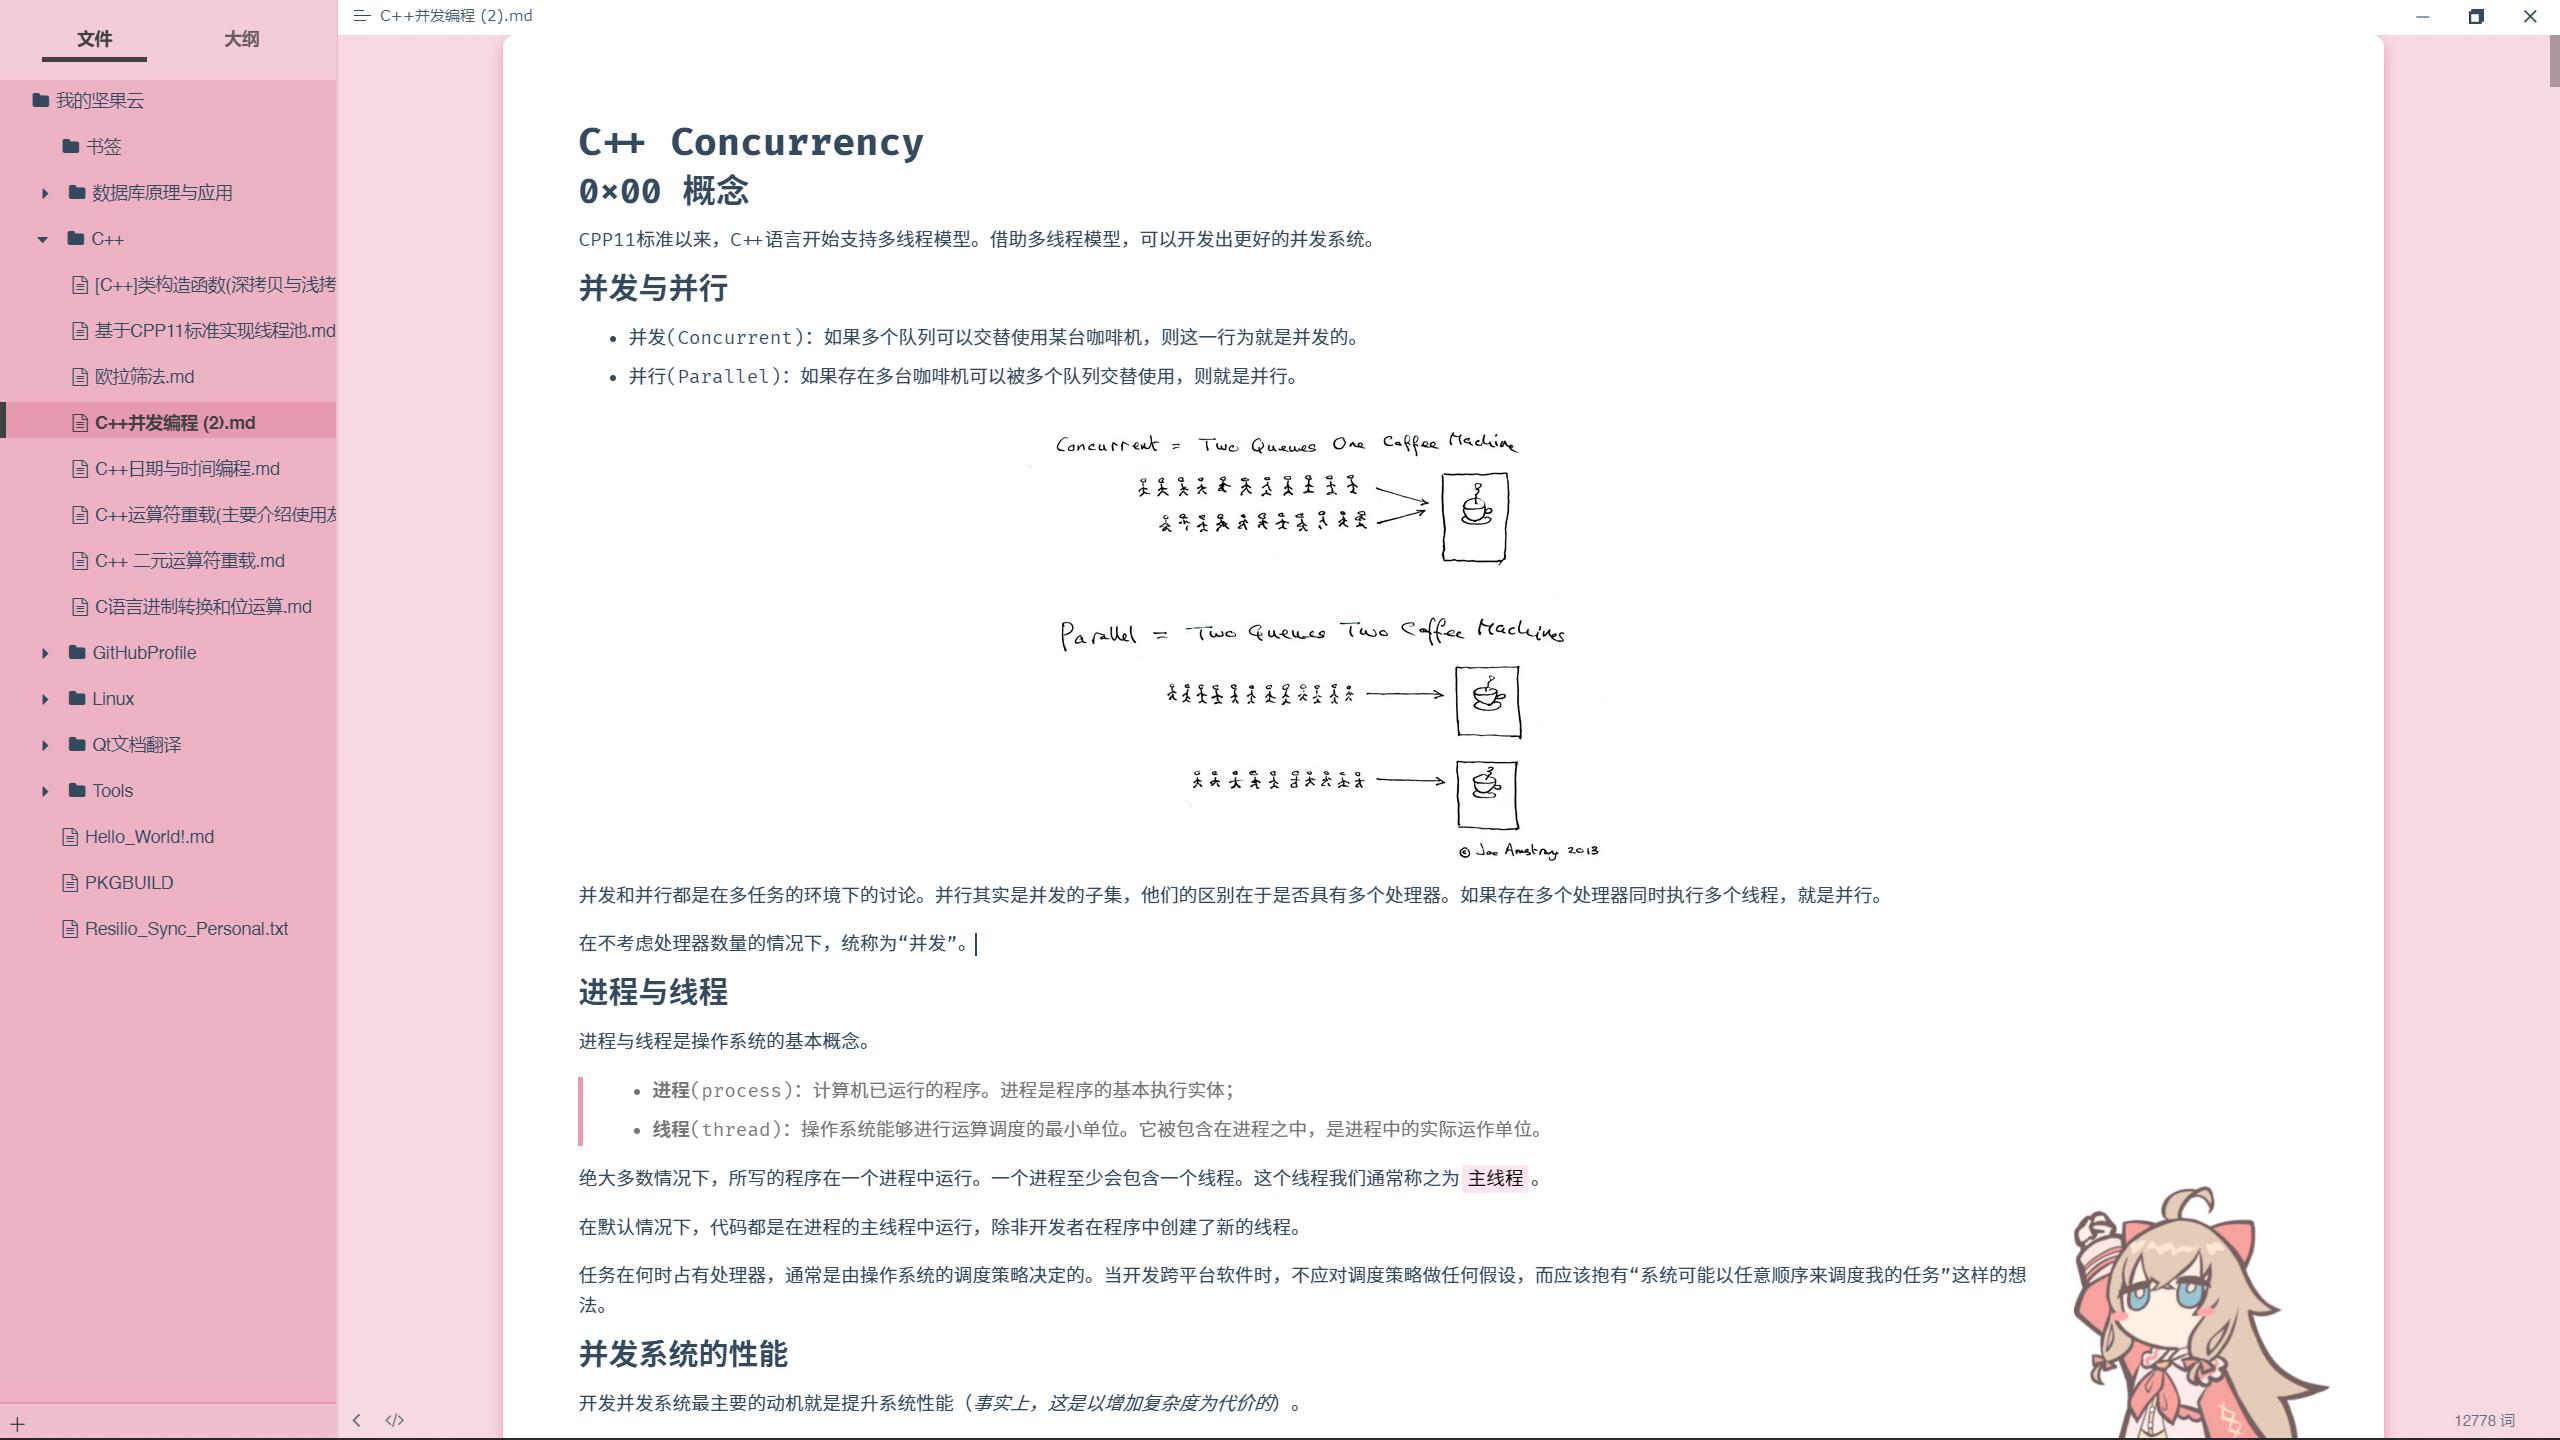
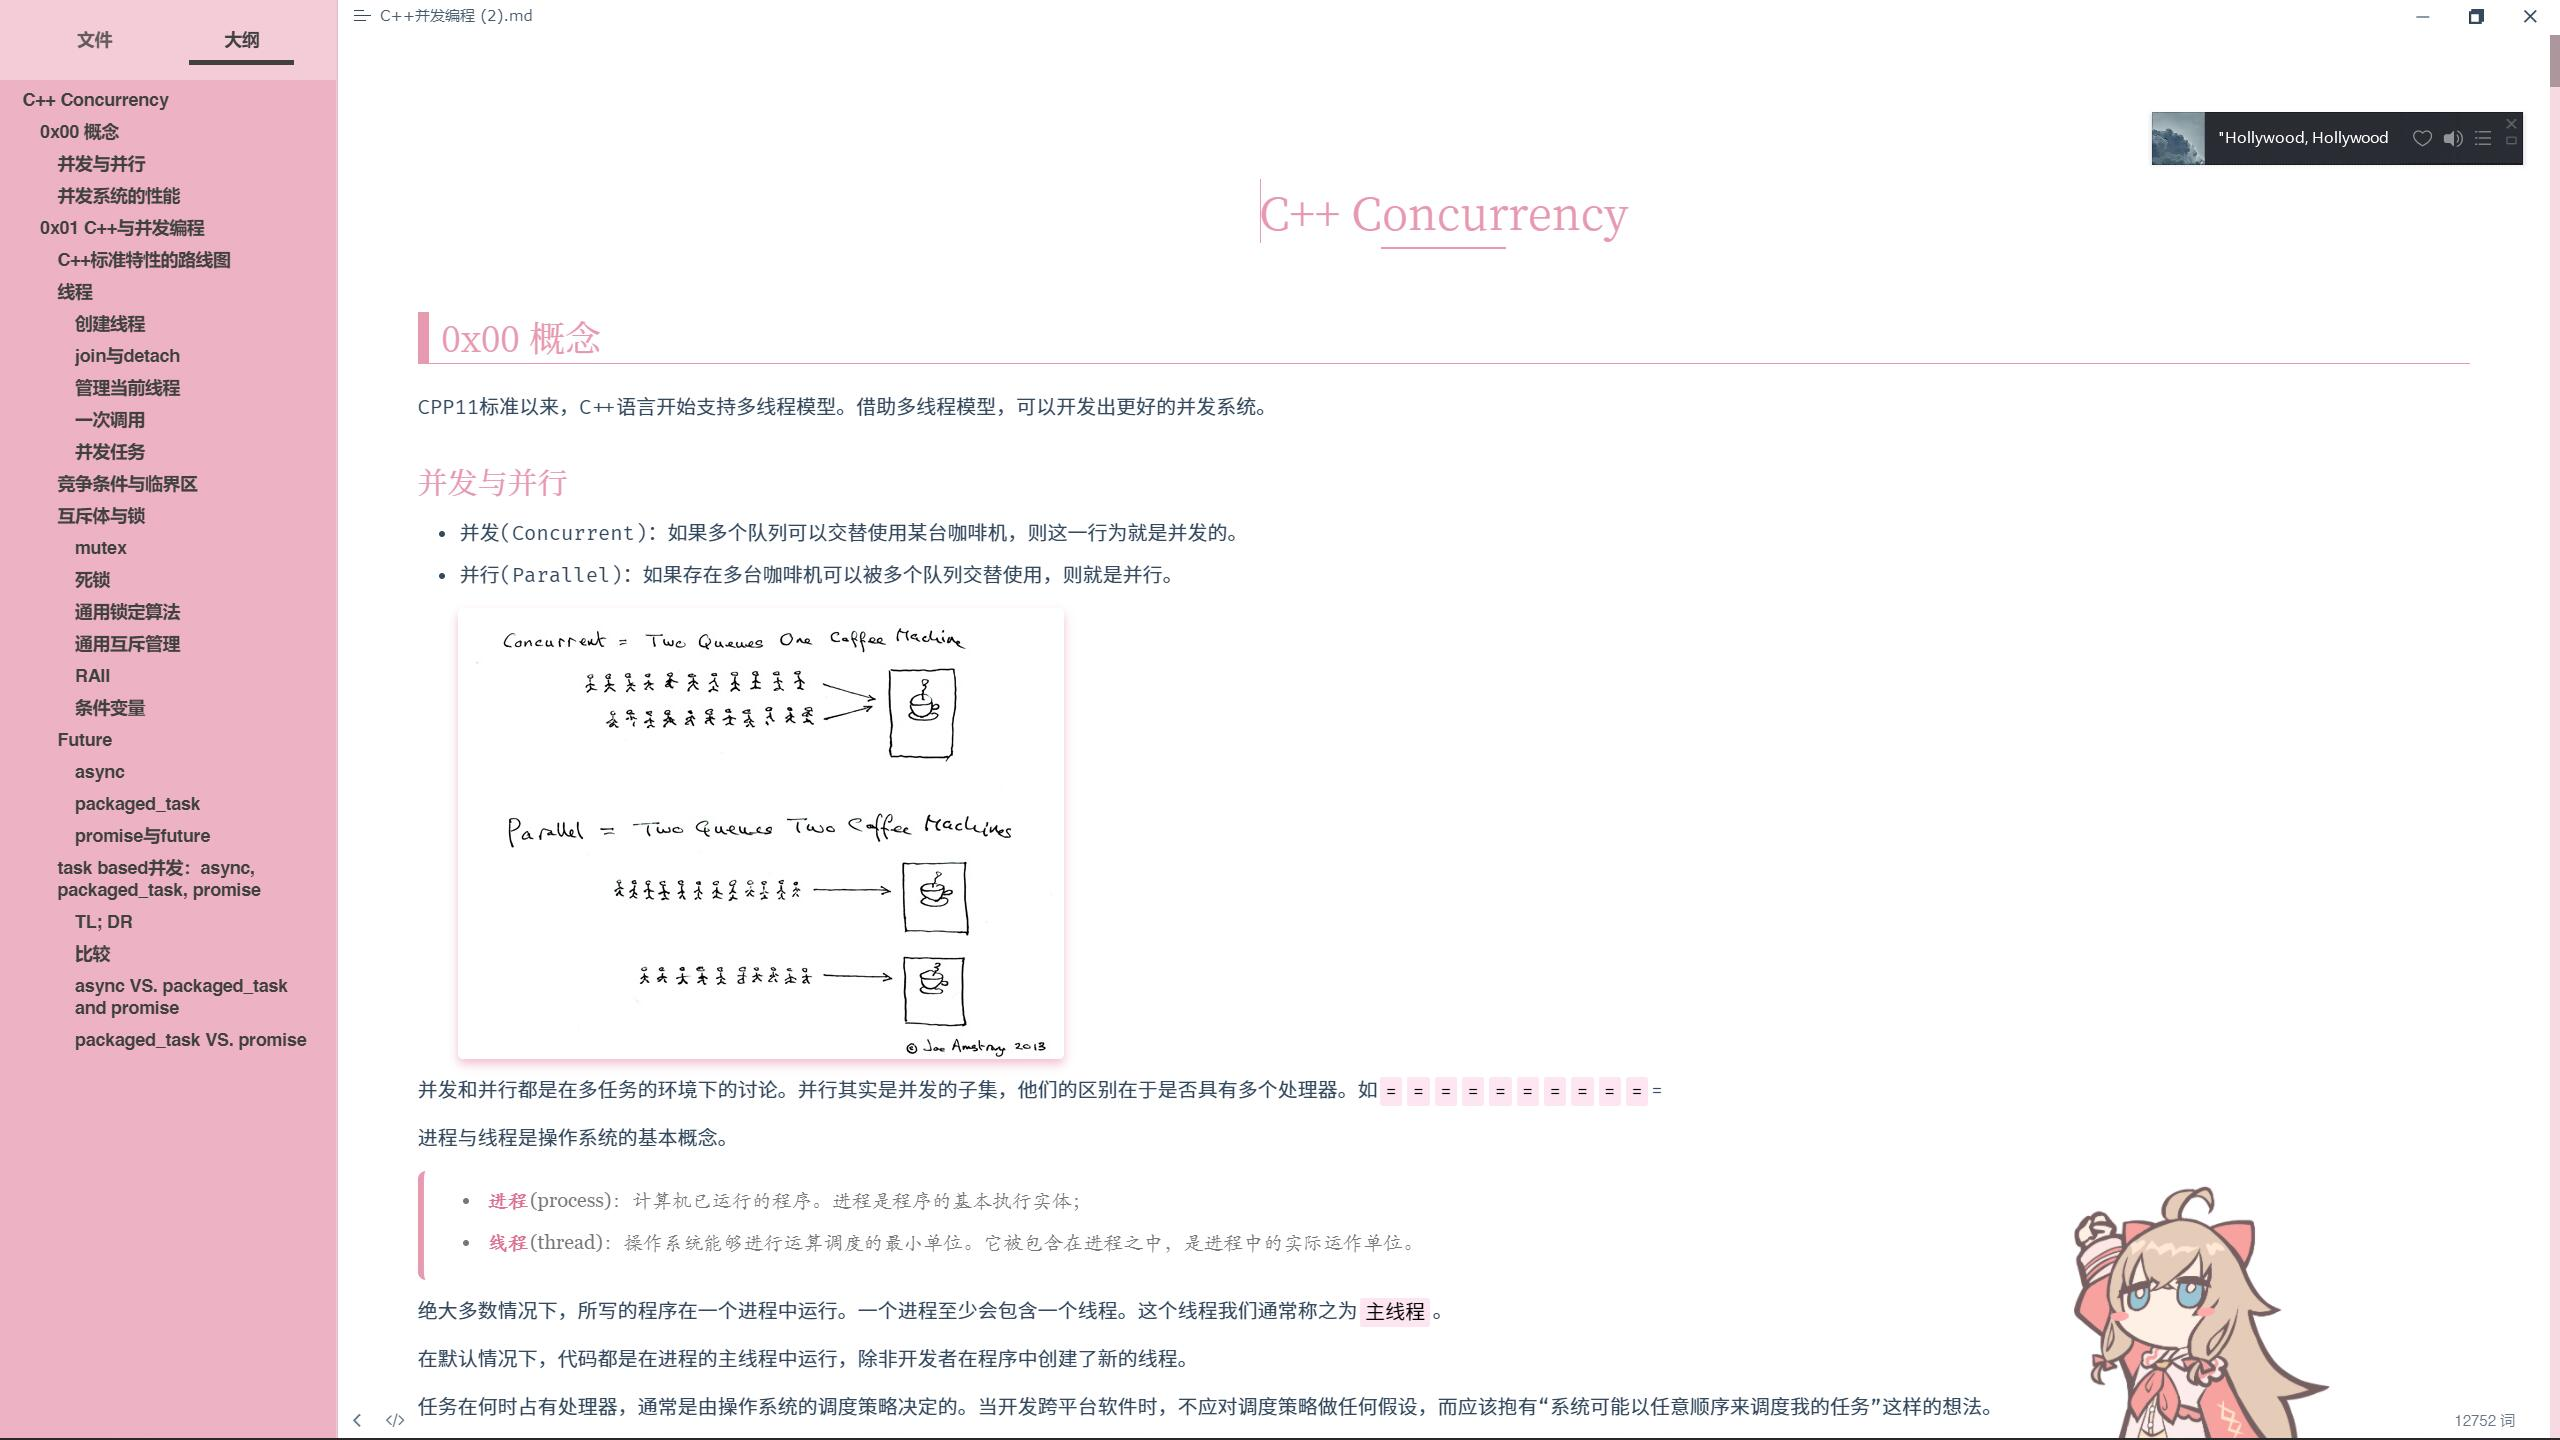
更新多个样式（最重要的时全局flat）
1. 更改为flat样式（相比于缩放样式更适合显示，当然，纸张的仿真感就没啦！）
2. 更新标题样式
3. 更新搜索样式
4. 更新加粗字体样式
5. 暂时不会继续写了，开摆！

diff --git a/jiaran.css b/jiaran.css
@@ -1,20 +1,51 @@
 :root {
+  --control-text-color: #777;
+  --select-text-bg-color: rgba(223, 197, 223); /*#7e66992e;*/
+  --search-select-bg-color: #de7292;
+
   --side-bar-bg-color: rgba(231,153,176,0.5);
   --window-border: 2px solid #E799B0;
 
+  --title-color: #E799B0;
   --text-color: #34495e;
-  --font-sans-serif: "思源宋体", "Ubuntu", "Source Sans Pro", sans-serif !important;
-  --font-monospace: "Fira Code", "思源黑体", monospace !important;
+  --font-sans-serif: "思源宋体", "Source Han Sans CN", "Ubuntu", "Source Han Sans SC", "Source Sans Pro", sans-serif !important;
+  --font-monospace: "Fira Code", "思源黑体", "Noto Sans CJK SC", monospace !important;
 
   --base-font: -apple-system, "Fira Code", "思源黑体", "Noto Sans", "Helvetica Neue", Helvetica,
     "Nimbus Sans L", Arial, "Liberation Sans", "Noto Sans CJK SC", "PingFang SC",
     "Hiragino Sans GB", "Source Han Sans SC", "Source Han Sans CN",
     "Microsoft YaHei", "Wenquanyi Micro Hei", "WenQuanYi Zen Hei", "ST Heiti",
     SimHei, "WenQuanYi Zen Hei Sharp", "Ubuntu", "Source Sans Pro", monospace;
+
+    --title-font: "Noto Serif CJK SC", "Songti SC", "Source Han Serif SC",
+    "Source Han Serif CN", STSong, "AR PL New Sung", "AR PL SungtiL GB", NSimSun,
+    SimSun, "TW\-Sung", "WenQuanYi Bitmap Song", "AR PL UMing CN",
+    "AR PL UMing HK", "AR PL UMing TW", "AR PL UMing TW MBE", PMingLiU, MingLiU,
+    "Ubuntu", "Source Sans Pro", serif;
+  --em-font: "Noto Serif CJK SC" ， "Songti SC", "Source Han Serif SC",
+    "Source Han Serif CN", STSong, "AR PL New Sung", "AR PL SungtiL GB", NSimSun,
+    SimSun, "TW\-Sung", "WenQuanYi Bitmap Song", "AR PL UMing CN",
+    "AR PL UMing HK", "AR PL UMing TW", "AR PL UMing TW MBE", PMingLiU, MingLiU,
+    "Ubuntu", "Source Sans Pro", serif;
+  --quota-font: "EB Garamond", Baskerville, Georgia, "Liberation Serif",
+    "TW-Kai", "Kaiti SC", STKaiti, "AR PL UKai CN", "AR PL UKai HK",
+    "AR PL UKai TW", "AR PL UKai TW MBE", "AR PL KaitiM GB", KaiTi, KaiTi_GB2312,
+    DFKai-SB, "TW\-Kai", serif;
+  --monospace: "Fira Code", "思源黑体", "Noto Sans", "Noto Sans CJK SC", "Cascadia code", "Sarasa Term SC", Monaco, "Deja Vu Sans Mono",
+    Consolas, "Lucida Console", "Andale Mono", "Fira Code", "Roboto Mono",
+    monospace, Courier;
+
+    --pink-1: #E799B0;
+    --pink-2: #de7292;
+    --pink-3: #eaa6ba;
+    --pink-4: #f0bfce;
+    --pink-5: #fd5eb8;
+
+    --shadow: var(--pink-4) 0px 5px 10px;
 }
 
 html {
-  font-size: 15px;
+  font-size: 16px;
   -webkit-text-size-adjust: 100%;
   -ms-text-size-adjust: 100%;
   text-rendering: optimizelegibility;
@@ -37,12 +68,14 @@ content {
 #write {
   font-family: var(--base-font);
   background-color: #fff !important; 
-  width: 85%;
-  height: auto;
+  /*width: 85%;
+  height: auto;*/
+
   background: url("./diana.png") no-repeat;
   background-size: 10%;
   background-position: 90% bottom;
   background-attachment: fixed;
+
   /*margin-top: 30px;
   margin-bottom: 15px;
   padding-left: 80px;
@@ -50,7 +83,8 @@ content {
   margin: 0 auto;
   padding: 4rem;
   padding-bottom: 100px;
-  border-radius: 10px;
+
+  /*border-radius: 10px;*/
   box-shadow: 0px 5px 10px #E799B0;
 }
 
@@ -58,6 +92,161 @@ content {
   line-height: 1.6rem;
   word-spacing: 0.05rem;
 }
+
+body > *:first-child {
+  margin-top: 0 !important;
+}
+
+body > *:last-child {
+  margin-bottom: 0 !important;
+}
+
+a {
+  color: var(--pink-4);
+  text-decoration: none;
+}
+#write a:hover {
+  border-bottom: 1px solid var(--pink-4);
+  color: var(--pink-4);
+  text-decoration: none;
+}
+.md-content {
+  color: var(--pink-3);
+}
+
+h1,
+h2,
+h3,
+h4,
+h5,
+h6 {
+  position: relative;
+  margin-top: 1rem;
+  margin-bottom: 0.5rem;
+  /* font-weight: bold; */
+  font-weight: 400;
+  line-height: 1.4;
+  cursor: text;
+  color: var(--title-color);
+  font-family: var(--title-font);
+}
+
+h1 tt,
+h1 code {
+  font-size: inherit !important;
+}
+h2 tt,
+h2 code {
+  font-size: inherit !important;
+}
+h3 tt,
+h3 code {
+  font-size: inherit !important;
+}
+h4 tt,
+h4 code {
+  font-size: inherit !important;
+}
+h5 tt,
+h5 code {
+  font-size: inherit !important;
+}
+h6 tt,
+h6 code {
+  font-size: inherit !important;
+}
+
+h1 {
+  padding-bottom: 0.4rem;
+  font-size: 2.2rem;
+  line-height: 1.3;
+}
+h1 {
+  text-align: center;
+  padding-bottom: 0.3em;
+  font-size: 2.2em;
+  line-height: 1.2;
+  margin: 1.6em auto 1em;
+}
+h1:after {
+  content: "";
+  display: block;
+  margin: 0.2em auto 0;
+  width: 100px;
+  height: 2px;
+  border-bottom: 2px solid var(--title-color);
+}
+
+h2 {
+  margin: 1.4em auto 0.8em;
+  padding-left: 10px;
+  line-height: 1.4;
+  font-size: 1.8em;
+  border-left: 9px solid var(--title-color);
+  border-bottom: 1px solid var(--title-color);
+}
+h3 {
+  font-size: 1.5rem;
+  margin: 1.2em auto 0.5em;
+}
+h4 {
+  font-size: 1.3rem;
+}
+h5 {
+  font-size: 1.2rem;
+}
+h6 {
+  font-size: 1.1rem;
+}
+
+p,
+blockquote,
+ul,
+ol,
+dl,
+table {
+  margin: 0.8em 0;
+}
+
+/* horizontal rule */
+hr {
+  margin: 16px 0;
+  border: 0;
+  border-top: 1px solid #eee;
+}
+
+/* 列表 */
+li > ol,
+li > ul {
+  margin: 0 0;
+}
+
+li p.first {
+  display: inline-block;
+}
+
+ul,
+ol {
+  padding-left: 2rem;
+}
+
+ul:first-child,
+ol:first-child {
+  margin-top: 0;
+}
+
+ul:last-child,
+ol:last-child {
+  margin-bottom: 0;
+}
+
+#write ol li,
+ul li {
+  padding-left: 0.1rem;
+}
+
+
+
 
 #filesearch-case-option-btn,
 #filesearch-word-option-btn {
@@ -213,9 +402,13 @@ tt {
 }
 
 blockquote {
-    border-left: 4px solid #E799B0;
-    padding: 0 15px;
-    color: #777777;
+  border-left: 0.3rem solid #E799B0;
+  border-radius: 0.4rem;
+  padding: 10px 15px;
+  color: #777;
+  /*background-color: var(--pink-4);
+  box-shadow: var(--pink-3);*/
+  font-family: var(--quota-font);
 }
 
 table {
@@ -241,6 +434,33 @@ table td {
     margin: 0;
     padding: 6px 13px;
 }
+table tr th:first-child,
+table tr td:first-child {
+  margin-top: 0;
+}
+
+table tr th:last-child,
+table tr td:last-child {
+  margin-bottom: 0;
+}
+
+
+/* 粗体 */
+#write strong {
+  padding: 0 2px;
+  color: var(--pink-2);
+  font-weight: 600;
+  font-family: var(--em-font);
+}
+
+/* 斜体 */
+#write em {
+  padding: 0 5px 0 2px;
+  font-family: var(--em-font);
+  /* font-style: normal;
+  color: #4abdeb; */
+}
+
 
 .md-reset {
   background-color: #fff;
@@ -263,4 +483,37 @@ table td {
   border-radius: 2px;
   padding: 2px 4px;
   margin: 0 2px;
+}
+
+#write del {
+  padding: 1px 2px;
+}
+
+/* 图片 */
+.md-image > .md-meta {
+  border-radius: 3px;
+  font-family: var(--monospace);
+  padding: 2px 0 0 4px;
+  font-size: 0.9em;
+  color: inherit;
+}
+/* 图片靠左显示 */
+p .md-image:only-child {
+  width: auto;
+  text-align: left;
+  margin-left: 2rem;
+}
+.md-tag {
+  color: inherit;
+}
+
+/* 默认有阴影 */
+#write img {
+  box-shadow: var(--shadow);
+  border-radius: 5px;
+  max-width: 914px;
+}
+
+element.style {
+  width: calc(100% - 18px);
 }

diff --git a/README.md b/README.md
@@ -44,3 +44,9 @@
 5. 修改README，将示例移至`example.md`
 6. 更新示例
 
+2021/9/17：
+
+1. 更改为flat样式
+2. 更新标题样式
+3. 更新加粗字体样式
+4. 更新搜索样式
